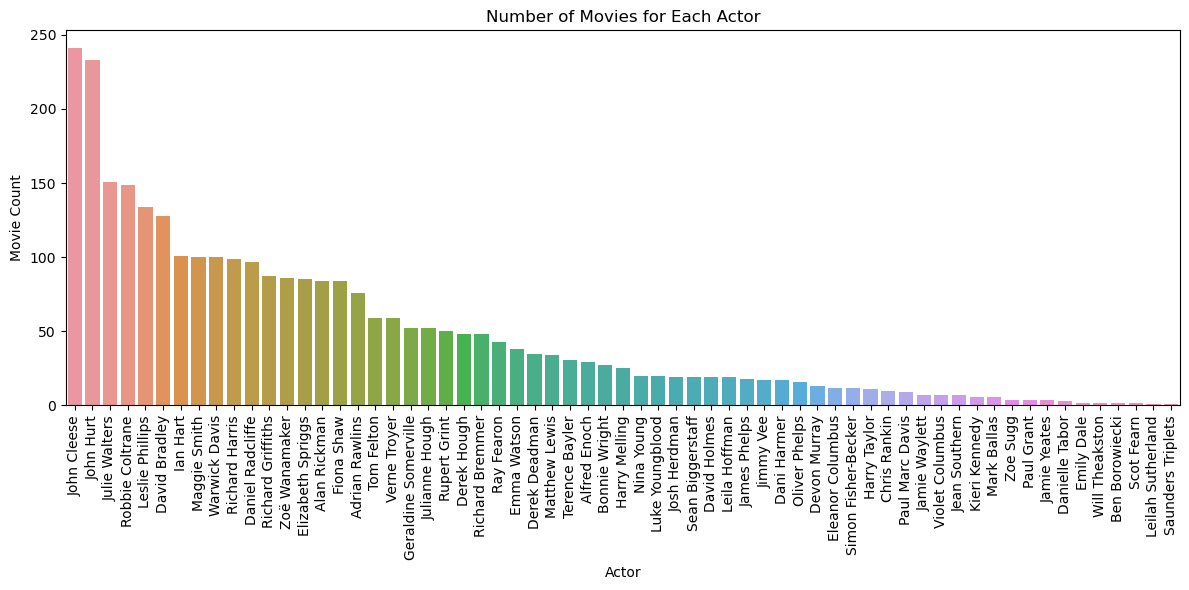
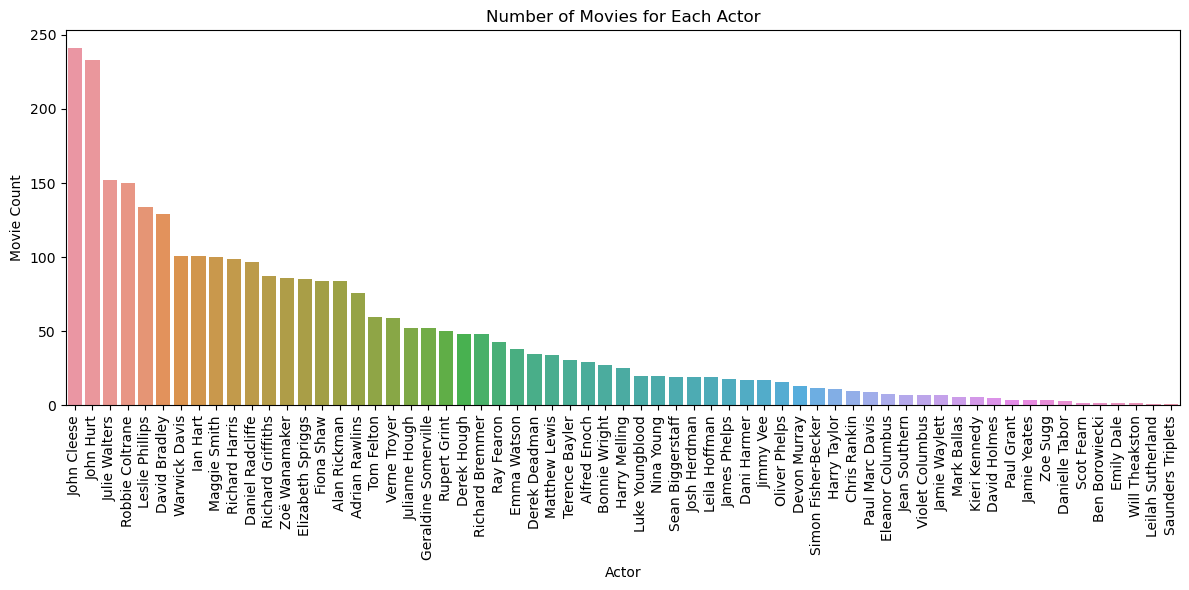
Built site for gh-pages

diff --git a/posts/16BHW2/index.html b/posts/16BHW2/index.html
@@ -7,7 +7,7 @@
 <meta name="viewport" content="width=device-width, initial-scale=1.0, user-scalable=yes">
 
 <meta name="author" content="Manshu Huang">
-<meta name="dcterms.date" content="2024-02-06">
+<meta name="dcterms.date" content="2024-02-12">
 
 <title>PIC16B - PIC 16B HW2</title>
 <style>
@@ -170,7 +170,7 @@ pre > code.sourceCode > span > a:first-child::before { text-decoration: underlin
       <div>
       <div class="quarto-title-meta-heading">Published</div>
       <div class="quarto-title-meta-contents">
-        <p class="date">February 6, 2024</p>
+        <p class="date">February 12, 2024</p>
       </div>
     </div>
     
@@ -223,85 +223,90 @@ cd TMDB_scraper</code></pre>
 <section id="write-scraper" class="level2">
 <h2 class="anchored" data-anchor-id="write-scraper">2. Write Scraper</h2>
 <p>In this section, we create a file <strong>tmdb_spider.py</strong> inside the <strong>spiders</strong> directory called <strong>tmdb_spider.py</strong>. Note we will write scraper codes in this file.</p>
-<div id="cell-10" class="cell">
+<div id="cell-10" class="cell" data-execution_count="3">
 <div class="sourceCode cell-code" id="cb4"><pre class="sourceCode python code-with-copy"><code class="sourceCode python"><span id="cb4-1"><a href="#cb4-1" aria-hidden="true" tabindex="-1"></a><span class="co"># to run </span></span>
 <span id="cb4-2"><a href="#cb4-2" aria-hidden="true" tabindex="-1"></a><span class="co"># scrapy crawl tmdb_spider -o movies.csv -a subdir=671-harry-potter-and-the-philosopher-s-stone</span></span>
 <span id="cb4-3"><a href="#cb4-3" aria-hidden="true" tabindex="-1"></a></span>
 <span id="cb4-4"><a href="#cb4-4" aria-hidden="true" tabindex="-1"></a><span class="im">import</span> scrapy</span>
 <span id="cb4-5"><a href="#cb4-5" aria-hidden="true" tabindex="-1"></a></span>
 <span id="cb4-6"><a href="#cb4-6" aria-hidden="true" tabindex="-1"></a><span class="kw">class</span> TmdbSpider(scrapy.Spider):</span>
-<span id="cb4-7"><a href="#cb4-7" aria-hidden="true" tabindex="-1"></a>    <span class="co"># Give a spider name, used to specify the spider in the command line</span></span>
+<span id="cb4-7"><a href="#cb4-7" aria-hidden="true" tabindex="-1"></a>    <span class="co"># Give a unique identifier for spider name, used to trigger this certain spider from the command line</span></span>
 <span id="cb4-8"><a href="#cb4-8" aria-hidden="true" tabindex="-1"></a>    name <span class="op">=</span> <span class="st">'tmdb_spider'</span></span>
 <span id="cb4-9"><a href="#cb4-9" aria-hidden="true" tabindex="-1"></a>    </span>
 <span id="cb4-10"><a href="#cb4-10" aria-hidden="true" tabindex="-1"></a>    <span class="kw">def</span> <span class="fu">__init__</span>(<span class="va">self</span>, subdir<span class="op">=</span><span class="va">None</span>, <span class="op">*</span>args, <span class="op">**</span>kwargs):</span>
 <span id="cb4-11"><a href="#cb4-11" aria-hidden="true" tabindex="-1"></a>        <span class="co">"""</span></span>
-<span id="cb4-12"><a href="#cb4-12" aria-hidden="true" tabindex="-1"></a><span class="co">        Initialize the spider instance</span></span>
-<span id="cb4-13"><a href="#cb4-13" aria-hidden="true" tabindex="-1"></a><span class="co">        :param subdir: The movie's subdirectory, used to build the start URL</span></span>
-<span id="cb4-14"><a href="#cb4-14" aria-hidden="true" tabindex="-1"></a><span class="co">        :param args: Positional arguments</span></span>
-<span id="cb4-15"><a href="#cb4-15" aria-hidden="true" tabindex="-1"></a><span class="co">        :param kwargs: Keyword arguments</span></span>
-<span id="cb4-16"><a href="#cb4-16" aria-hidden="true" tabindex="-1"></a><span class="co">        """</span></span>
-<span id="cb4-17"><a href="#cb4-17" aria-hidden="true" tabindex="-1"></a>        <span class="bu">super</span>(TmdbSpider, <span class="va">self</span>).<span class="fu">__init__</span>(<span class="op">*</span>args, <span class="op">**</span>kwargs)</span>
-<span id="cb4-18"><a href="#cb4-18" aria-hidden="true" tabindex="-1"></a>        <span class="co"># Construct the start URLs list, each URL corresponds to a page to scrape</span></span>
-<span id="cb4-19"><a href="#cb4-19" aria-hidden="true" tabindex="-1"></a>        <span class="va">self</span>.start_urls <span class="op">=</span> [<span class="ss">f"https://www.themoviedb.org/movie/</span><span class="sc">{</span>subdir<span class="sc">}</span><span class="ss">/"</span>]</span>
-<span id="cb4-20"><a href="#cb4-20" aria-hidden="true" tabindex="-1"></a></span>
-<span id="cb4-21"><a href="#cb4-21" aria-hidden="true" tabindex="-1"></a>    <span class="kw">def</span> parse(<span class="va">self</span>, response):</span>
-<span id="cb4-22"><a href="#cb4-22" aria-hidden="true" tabindex="-1"></a>        <span class="co">"""</span></span>
-<span id="cb4-23"><a href="#cb4-23" aria-hidden="true" tabindex="-1"></a><span class="co">        Parses the main movie page, extracts the from the full cast, and makes a request to that link</span></span>
-<span id="cb4-24"><a href="#cb4-24" aria-hidden="true" tabindex="-1"></a><span class="co">        :param response: The response object containing the content of the movies' main page</span></span>
-<span id="cb4-25"><a href="#cb4-25" aria-hidden="true" tabindex="-1"></a><span class="co">        """</span></span>
-<span id="cb4-26"><a href="#cb4-26" aria-hidden="true" tabindex="-1"></a>        <span class="co"># Extracts the link to the "full cast and crew" page from the main movie page</span></span>
-<span id="cb4-27"><a href="#cb4-27" aria-hidden="true" tabindex="-1"></a>        full_cast_link <span class="op">=</span> response.css(<span class="st">'p.new_button a::attr(href)'</span>).get()</span>
-<span id="cb4-28"><a href="#cb4-28" aria-hidden="true" tabindex="-1"></a>        <span class="cf">if</span> full_cast_link:</span>
-<span id="cb4-29"><a href="#cb4-29" aria-hidden="true" tabindex="-1"></a>            <span class="co"># If the link is found, make a request to the cast list page</span></span>
-<span id="cb4-30"><a href="#cb4-30" aria-hidden="true" tabindex="-1"></a>            <span class="cf">yield</span> response.follow(full_cast_link, <span class="va">self</span>.parse_full_credits)</span>
-<span id="cb4-31"><a href="#cb4-31" aria-hidden="true" tabindex="-1"></a>    </span>
-<span id="cb4-32"><a href="#cb4-32" aria-hidden="true" tabindex="-1"></a>    <span class="kw">def</span> parse_full_credits(<span class="va">self</span>, response):</span>
-<span id="cb4-33"><a href="#cb4-33" aria-hidden="true" tabindex="-1"></a>        <span class="co">"""</span></span>
-<span id="cb4-34"><a href="#cb4-34" aria-hidden="true" tabindex="-1"></a><span class="co">        Parses the full cast list page, extracts individual actor page links, and makes requests to those pages.</span></span>
-<span id="cb4-35"><a href="#cb4-35" aria-hidden="true" tabindex="-1"></a><span class="co">        :param response: The response object containing the content of the full cast list page.</span></span>
-<span id="cb4-36"><a href="#cb4-36" aria-hidden="true" tabindex="-1"></a><span class="co">        """</span></span>
-<span id="cb4-37"><a href="#cb4-37" aria-hidden="true" tabindex="-1"></a>        <span class="co"># Selects only the first "panel pad" section of the page</span></span>
-<span id="cb4-38"><a href="#cb4-38" aria-hidden="true" tabindex="-1"></a>        first_panel_pad <span class="op">=</span> response.xpath(<span class="st">'(//section[contains(@class, "panel") and contains(@class, "pad")])[1]'</span>)</span>
-<span id="cb4-39"><a href="#cb4-39" aria-hidden="true" tabindex="-1"></a>        <span class="cf">for</span> actor <span class="kw">in</span> first_panel_pad.css(<span class="st">'ol.people.credits &gt; li'</span>):</span>
-<span id="cb4-40"><a href="#cb4-40" aria-hidden="true" tabindex="-1"></a>            <span class="co"># Extracts the individual actor page link</span></span>
-<span id="cb4-41"><a href="#cb4-41" aria-hidden="true" tabindex="-1"></a>            actor_page <span class="op">=</span> actor.css(<span class="st">'a::attr(href)'</span>).get()</span>
-<span id="cb4-42"><a href="#cb4-42" aria-hidden="true" tabindex="-1"></a>            <span class="cf">if</span> actor_page:</span>
-<span id="cb4-43"><a href="#cb4-43" aria-hidden="true" tabindex="-1"></a>                <span class="co"># Makes a request to the actor's personal page</span></span>
-<span id="cb4-44"><a href="#cb4-44" aria-hidden="true" tabindex="-1"></a>                <span class="cf">yield</span> response.follow(actor_page[:<span class="op">-</span><span class="dv">15</span>]<span class="op">+</span><span class="st">'?credit_department=Acting&amp;language=en-US'</span>, <span class="va">self</span>.parse_actor_page)</span>
-<span id="cb4-45"><a href="#cb4-45" aria-hidden="true" tabindex="-1"></a>    </span>
-<span id="cb4-46"><a href="#cb4-46" aria-hidden="true" tabindex="-1"></a>    <span class="kw">def</span> parse_actor_page(<span class="va">self</span>, response):</span>
-<span id="cb4-47"><a href="#cb4-47" aria-hidden="true" tabindex="-1"></a>        <span class="co">"""</span></span>
-<span id="cb4-48"><a href="#cb4-48" aria-hidden="true" tabindex="-1"></a><span class="co">        Parses the actor's personal page, extracting information about the movies or TV shows the actor has participated in.</span></span>
-<span id="cb4-49"><a href="#cb4-49" aria-hidden="true" tabindex="-1"></a><span class="co">        :param response: The response object containing the content of the actor's personal page.</span></span>
-<span id="cb4-50"><a href="#cb4-50" aria-hidden="true" tabindex="-1"></a><span class="co">        """</span></span>
-<span id="cb4-51"><a href="#cb4-51" aria-hidden="true" tabindex="-1"></a>        <span class="co"># Extracts the actor's name</span></span>
-<span id="cb4-52"><a href="#cb4-52" aria-hidden="true" tabindex="-1"></a>        actor_name <span class="op">=</span> response.css(<span class="st">'h2.title a::text'</span>).get().strip()</span>
-<span id="cb4-53"><a href="#cb4-53" aria-hidden="true" tabindex="-1"></a>        <span class="co"># Selects the first "card credits" table on the personal page</span></span>
-<span id="cb4-54"><a href="#cb4-54" aria-hidden="true" tabindex="-1"></a>        first_panel <span class="op">=</span> response.xpath(<span class="st">'(//table[contains(@class, "card") and contains(@class, "credits")])[1]'</span>)</span>
-<span id="cb4-55"><a href="#cb4-55" aria-hidden="true" tabindex="-1"></a>        <span class="cf">for</span> credit <span class="kw">in</span> first_panel.css(<span class="st">'.credit_group tr'</span>):</span>
-<span id="cb4-56"><a href="#cb4-56" aria-hidden="true" tabindex="-1"></a>            <span class="co"># Extracts the title of the work</span></span>
-<span id="cb4-57"><a href="#cb4-57" aria-hidden="true" tabindex="-1"></a>            title <span class="op">=</span> credit.css(<span class="st">'.role .tooltip bdi::text'</span>).get()</span>
-<span id="cb4-58"><a href="#cb4-58" aria-hidden="true" tabindex="-1"></a>            <span class="co"># Yields a dictionary containing the actor's name and the title of the work</span></span>
-<span id="cb4-59"><a href="#cb4-59" aria-hidden="true" tabindex="-1"></a>            <span class="cf">yield</span> {</span>
-<span id="cb4-60"><a href="#cb4-60" aria-hidden="true" tabindex="-1"></a>                <span class="st">'actor'</span>: actor_name,</span>
-<span id="cb4-61"><a href="#cb4-61" aria-hidden="true" tabindex="-1"></a>                <span class="st">'movie_or_TV_name'</span>: title</span>
-<span id="cb4-62"><a href="#cb4-62" aria-hidden="true" tabindex="-1"></a>            }</span></code><button title="Copy to Clipboard" class="code-copy-button"><i class="bi"></i></button></pre></div>
+<span id="cb4-12"><a href="#cb4-12" aria-hidden="true" tabindex="-1"></a><span class="co">        Initialize the spider instance with a specific movie's subdirectory.</span></span>
+<span id="cb4-13"><a href="#cb4-13" aria-hidden="true" tabindex="-1"></a><span class="co">        This subdirectory is essential for crafting the starting URL from which the spider begins scraping.</span></span>
+<span id="cb4-14"><a href="#cb4-14" aria-hidden="true" tabindex="-1"></a><span class="co">        </span></span>
+<span id="cb4-15"><a href="#cb4-15" aria-hidden="true" tabindex="-1"></a><span class="co">        :param subdir: Subdirectory for the movie on TMDB site, used to build the start URL</span></span>
+<span id="cb4-16"><a href="#cb4-16" aria-hidden="true" tabindex="-1"></a><span class="co">        :param args: Positional arguments</span></span>
+<span id="cb4-17"><a href="#cb4-17" aria-hidden="true" tabindex="-1"></a><span class="co">        :param kwargs: Keyword arguments</span></span>
+<span id="cb4-18"><a href="#cb4-18" aria-hidden="true" tabindex="-1"></a><span class="co">        """</span></span>
+<span id="cb4-19"><a href="#cb4-19" aria-hidden="true" tabindex="-1"></a>        <span class="bu">super</span>(TmdbSpider, <span class="va">self</span>).<span class="fu">__init__</span>(<span class="op">*</span>args, <span class="op">**</span>kwargs)</span>
+<span id="cb4-20"><a href="#cb4-20" aria-hidden="true" tabindex="-1"></a>        <span class="co"># Set the starting URL to scrape based on the provided movie subdirectory.</span></span>
+<span id="cb4-21"><a href="#cb4-21" aria-hidden="true" tabindex="-1"></a>        <span class="va">self</span>.start_urls <span class="op">=</span> [<span class="ss">f"https://www.themoviedb.org/movie/</span><span class="sc">{</span>subdir<span class="sc">}</span><span class="ss">/"</span>]</span>
+<span id="cb4-22"><a href="#cb4-22" aria-hidden="true" tabindex="-1"></a></span>
+<span id="cb4-23"><a href="#cb4-23" aria-hidden="true" tabindex="-1"></a>    <span class="kw">def</span> parse(<span class="va">self</span>, response):</span>
+<span id="cb4-24"><a href="#cb4-24" aria-hidden="true" tabindex="-1"></a>        <span class="co">"""</span></span>
+<span id="cb4-25"><a href="#cb4-25" aria-hidden="true" tabindex="-1"></a><span class="co">        Parses the main movie page, extracts the from the full cast, and makes a request to that link</span></span>
+<span id="cb4-26"><a href="#cb4-26" aria-hidden="true" tabindex="-1"></a><span class="co">        :param response: The response object containing the content of the movies' main page</span></span>
+<span id="cb4-27"><a href="#cb4-27" aria-hidden="true" tabindex="-1"></a><span class="co">        """</span></span>
+<span id="cb4-28"><a href="#cb4-28" aria-hidden="true" tabindex="-1"></a>        <span class="co"># Extracts the link to the "full cast and crew" page from the main movie page</span></span>
+<span id="cb4-29"><a href="#cb4-29" aria-hidden="true" tabindex="-1"></a>        full_cast_link <span class="op">=</span> response.css(<span class="st">'p.new_button a::attr(href)'</span>).get()</span>
+<span id="cb4-30"><a href="#cb4-30" aria-hidden="true" tabindex="-1"></a>        <span class="cf">if</span> full_cast_link:</span>
+<span id="cb4-31"><a href="#cb4-31" aria-hidden="true" tabindex="-1"></a>            <span class="co"># If the link is found, make a request to the cast list page</span></span>
+<span id="cb4-32"><a href="#cb4-32" aria-hidden="true" tabindex="-1"></a>            <span class="cf">yield</span> response.follow(full_cast_link, <span class="va">self</span>.parse_full_credits)</span>
+<span id="cb4-33"><a href="#cb4-33" aria-hidden="true" tabindex="-1"></a>    </span>
+<span id="cb4-34"><a href="#cb4-34" aria-hidden="true" tabindex="-1"></a>    <span class="kw">def</span> parse_full_credits(<span class="va">self</span>, response):</span>
+<span id="cb4-35"><a href="#cb4-35" aria-hidden="true" tabindex="-1"></a>        <span class="co">"""</span></span>
+<span id="cb4-36"><a href="#cb4-36" aria-hidden="true" tabindex="-1"></a><span class="co">        Parses the "Full Cast &amp; Crew" page, extracts each individual actor's personal page links, and makes requests to those pages.</span></span>
+<span id="cb4-37"><a href="#cb4-37" aria-hidden="true" tabindex="-1"></a><span class="co">        :param response: contains the content of the "Full Cast &amp; Crew" page.</span></span>
+<span id="cb4-38"><a href="#cb4-38" aria-hidden="true" tabindex="-1"></a><span class="co">        """</span></span>
+<span id="cb4-39"><a href="#cb4-39" aria-hidden="true" tabindex="-1"></a>        <span class="co"># Selects only the first "panel pad" section of the page using CSS selectors</span></span>
+<span id="cb4-40"><a href="#cb4-40" aria-hidden="true" tabindex="-1"></a>        first_panel_pad <span class="op">=</span> response.xpath(<span class="st">'(//section[contains(@class, "panel") and contains(@class, "pad")])[1]'</span>)</span>
+<span id="cb4-41"><a href="#cb4-41" aria-hidden="true" tabindex="-1"></a>        <span class="cf">for</span> actor <span class="kw">in</span> first_panel_pad.css(<span class="st">'ol.people.credits &gt; li'</span>):</span>
+<span id="cb4-42"><a href="#cb4-42" aria-hidden="true" tabindex="-1"></a>            <span class="co"># Extracts the individual actor page link，not including crew members</span></span>
+<span id="cb4-43"><a href="#cb4-43" aria-hidden="true" tabindex="-1"></a>            actor_page <span class="op">=</span> actor.css(<span class="st">'a::attr(href)'</span>).get()</span>
+<span id="cb4-44"><a href="#cb4-44" aria-hidden="true" tabindex="-1"></a>            <span class="cf">if</span> actor_page:</span>
+<span id="cb4-45"><a href="#cb4-45" aria-hidden="true" tabindex="-1"></a>                <span class="co"># Makes a request to the actor's personal page, directing go to its acting role section</span></span>
+<span id="cb4-46"><a href="#cb4-46" aria-hidden="true" tabindex="-1"></a>                <span class="cf">yield</span> response.follow(actor_page <span class="op">+</span> <span class="st">'?credit_department=Acting'</span>, <span class="va">self</span>.parse_actor_page)</span>
+<span id="cb4-47"><a href="#cb4-47" aria-hidden="true" tabindex="-1"></a>                </span>
+<span id="cb4-48"><a href="#cb4-48" aria-hidden="true" tabindex="-1"></a>    <span class="kw">def</span> parse_actor_page(<span class="va">self</span>, response):</span>
+<span id="cb4-49"><a href="#cb4-49" aria-hidden="true" tabindex="-1"></a>        <span class="co">"""</span></span>
+<span id="cb4-50"><a href="#cb4-50" aria-hidden="true" tabindex="-1"></a><span class="co">        Parses the actor's personal page, extracting information about the movies or TV shows the actor has participated in.</span></span>
+<span id="cb4-51"><a href="#cb4-51" aria-hidden="true" tabindex="-1"></a><span class="co">        :param response: The response object containing the content of the actor's personal page. </span></span>
+<span id="cb4-52"><a href="#cb4-52" aria-hidden="true" tabindex="-1"></a><span class="co">        We want only the works listed in "Acting" section for the actor page.</span></span>
+<span id="cb4-53"><a href="#cb4-53" aria-hidden="true" tabindex="-1"></a><span class="co">        We need to determine both the name of actor and the name of each movie/show.</span></span>
+<span id="cb4-54"><a href="#cb4-54" aria-hidden="true" tabindex="-1"></a><span class="co">        """</span></span>
+<span id="cb4-55"><a href="#cb4-55" aria-hidden="true" tabindex="-1"></a>        <span class="co"># Extracts the actor's name</span></span>
+<span id="cb4-56"><a href="#cb4-56" aria-hidden="true" tabindex="-1"></a>        actor_name <span class="op">=</span> response.css(<span class="st">'h2.title a::text'</span>).get()</span>
+<span id="cb4-57"><a href="#cb4-57" aria-hidden="true" tabindex="-1"></a>        <span class="co"># Directly gets all texts of this structure</span></span>
+<span id="cb4-58"><a href="#cb4-58" aria-hidden="true" tabindex="-1"></a>        movies <span class="op">=</span> response.xpath(<span class="st">'//a[@class="tooltip"]/bdi/text()'</span>).getall()</span>
+<span id="cb4-59"><a href="#cb4-59" aria-hidden="true" tabindex="-1"></a>        <span class="co"># Extracts the title of the work</span></span>
+<span id="cb4-60"><a href="#cb4-60" aria-hidden="true" tabindex="-1"></a>        <span class="cf">for</span> title <span class="kw">in</span> movies:</span>
+<span id="cb4-61"><a href="#cb4-61" aria-hidden="true" tabindex="-1"></a>            <span class="co"># Yields a dictionary (two key-value pairs) containing the actor's name and the title of the work</span></span>
+<span id="cb4-62"><a href="#cb4-62" aria-hidden="true" tabindex="-1"></a>            <span class="cf">yield</span> {</span>
+<span id="cb4-63"><a href="#cb4-63" aria-hidden="true" tabindex="-1"></a>                <span class="st">'actor'</span>: actor_name,</span>
+<span id="cb4-64"><a href="#cb4-64" aria-hidden="true" tabindex="-1"></a>                <span class="st">'movie_or_TV_name'</span>: title</span>
+<span id="cb4-65"><a href="#cb4-65" aria-hidden="true" tabindex="-1"></a>            }</span></code><button title="Copy to Clipboard" class="code-copy-button"><i class="bi"></i></button></pre></div>
 </div>
 <p>After successfully build the spider, we can run this command in terminal: <br></p>
 <p><strong>scrapy crawl tmdb_spider -o results.csv -a subdir=671-harry-potter-and-the-philosopher-s-stone</strong> <br></p>
 <p>Which run the spider and save a results.csv file with columns for actor names and the movies and TV shows on which they featured in.</p>
+<p>Once the spider is fully written, we can comment out the line <br> <strong>CLOSESPIDER_PAGECOUNT = 20</strong><br> <br> in the settings.py file, then run this command in the terminal to generate a <strong>results.csv</strong> <br> <strong>scrapy crawl tmdb_spider -o results.csv -a subdir=671-harry-potter-and-the-philosopher-s-stone</strong></p>
+<p>This <strong>results.csv</strong> will contain columns for actor names and the movies and TV shows on which they featured in.</p>
 </section>
-<section id="visualization" class="level2">
-<h2 class="anchored" data-anchor-id="visualization">3. Visualization</h2>
+<section id="make-your-recommendations-visualization" class="level2">
+<h2 class="anchored" data-anchor-id="make-your-recommendations-visualization">3. Make Your Recommendations: Visualization</h2>
 <p>In this section, I will introduce visualization of numbers of shared actors.</p>
-<div id="cell-13" class="cell" data-execution_count="33">
+<div id="cell-15" class="cell" data-execution_count="4">
 <div class="sourceCode cell-code" id="cb5"><pre class="sourceCode python code-with-copy"><code class="sourceCode python"><span id="cb5-1"><a href="#cb5-1" aria-hidden="true" tabindex="-1"></a><span class="im">import</span> pandas <span class="im">as</span> pd</span>
 <span id="cb5-2"><a href="#cb5-2" aria-hidden="true" tabindex="-1"></a><span class="im">import</span> matplotlib.pyplot <span class="im">as</span> plt</span>
 <span id="cb5-3"><a href="#cb5-3" aria-hidden="true" tabindex="-1"></a><span class="im">import</span> seaborn <span class="im">as</span> sns</span></code><button title="Copy to Clipboard" class="code-copy-button"><i class="bi"></i></button></pre></div>
 </div>
 <section id="results.csv-results-view-in-table" class="level3">
 <h3 class="anchored" data-anchor-id="results.csv-results-view-in-table">results.csv results view in table</h3>
-<div id="cell-15" class="cell" data-execution_count="40">
+<div id="cell-17" class="cell" data-execution_count="5">
 <div class="sourceCode cell-code" id="cb6"><pre class="sourceCode python code-with-copy"><code class="sourceCode python"><span id="cb6-1"><a href="#cb6-1" aria-hidden="true" tabindex="-1"></a>data<span class="op">=</span>pd.read_csv(<span class="st">'results.csv'</span>)</span>
 <span id="cb6-2"><a href="#cb6-2" aria-hidden="true" tabindex="-1"></a><span class="bu">print</span>(data)</span></code><button title="Copy to Clipboard" class="code-copy-button"><i class="bi"></i></button></pre></div>
 <div class="cell-output cell-output-stdout">
@@ -312,16 +317,16 @@ cd TMDB_scraper</code></pre>
 3     Daniel Radcliffe                            Mulligan
 4     Daniel Radcliffe                             Digman!
 ...                ...                                 ...
-2969      Rupert Grint                            The View
-2970      Rupert Grint                                GMTV
-2971      Rupert Grint      The Tonight Show with Jay Leno
-2972      Rupert Grint                 An Audience with...
-2973      Rupert Grint                               Today
+2956      Rupert Grint                            The View
+2957      Rupert Grint                                GMTV
+2958      Rupert Grint      The Tonight Show with Jay Leno
+2959      Rupert Grint                 An Audience with...
+2960      Rupert Grint                               Today
 
-[2974 rows x 2 columns]</code></pre>
+[2961 rows x 2 columns]</code></pre>
 </div>
 </div>
-<div id="cell-16" class="cell" data-execution_count="42">
+<div id="cell-18" class="cell" data-execution_count="6">
 <div class="sourceCode cell-code" id="cb8"><pre class="sourceCode python code-with-copy"><code class="sourceCode python"><span id="cb8-1"><a href="#cb8-1" aria-hidden="true" tabindex="-1"></a><span class="bu">print</span>(data.head(<span class="dv">35</span>))</span></code><button title="Copy to Clipboard" class="code-copy-button"><i class="bi"></i></button></pre></div>
 <div class="cell-output cell-output-stdout">
 <pre><code>               actor                                   movie_or_TV_name
@@ -362,7 +367,7 @@ cd TMDB_scraper</code></pre>
 34  Daniel Radcliffe                                 Trailblazer Honors</code></pre>
 </div>
 </div>
-<div id="cell-17" class="cell" data-execution_count="35">
+<div id="cell-19" class="cell" data-execution_count="7">
 <div class="sourceCode cell-code" id="cb10"><pre class="sourceCode python code-with-copy"><code class="sourceCode python"><span id="cb10-1"><a href="#cb10-1" aria-hidden="true" tabindex="-1"></a><span class="co">"""</span></span>
 <span id="cb10-2"><a href="#cb10-2" aria-hidden="true" tabindex="-1"></a><span class="co">Counts the occurrences of each unique value in the 'actor' column of the dataframe 'data' and returns a Series.</span></span>
 <span id="cb10-3"><a href="#cb10-3" aria-hidden="true" tabindex="-1"></a><span class="co">The index of the Series will be the actor names, and the values will be the count of movies each actor has appeared in.</span></span>
@@ -372,25 +377,25 @@ cd TMDB_scraper</code></pre>
 </section>
 <section id="bar-plot-visualization" class="level3">
 <h3 class="anchored" data-anchor-id="bar-plot-visualization">Bar-Plot Visualization</h3>
-<div id="cell-19" class="cell" data-execution_count="36">
+<div id="cell-21" class="cell" data-execution_count="8">
 <div class="sourceCode cell-code" id="cb11"><pre class="sourceCode python code-with-copy"><code class="sourceCode python"><span id="cb11-1"><a href="#cb11-1" aria-hidden="true" tabindex="-1"></a>actor_counts</span></code><button title="Copy to Clipboard" class="code-copy-button"><i class="bi"></i></button></pre></div>
-<div class="cell-output cell-output-display" data-execution_count="36">
+<div class="cell-output cell-output-display" data-execution_count="8">
 <pre><code>actor
 John Cleese          241
 John Hurt            233
-Julie Walters        151
-Robbie Coltrane      149
+Julie Walters        152
+Robbie Coltrane      150
 Leslie Phillips      134
                     ... 
-Will Theakston         2
 Ben Borowiecki         2
-Scot Fearn             2
+Emily Dale             2
+Will Theakston         2
 Leilah Sutherland      1
 Saunders Triplets      1
 Name: count, Length: 63, dtype: int64</code></pre>
 </div>
 </div>
-<div id="cell-20" class="cell" data-execution_count="37">
+<div id="cell-22" class="cell" data-execution_count="9">
 <div class="sourceCode cell-code" id="cb13"><pre class="sourceCode python code-with-copy"><code class="sourceCode python"><span id="cb13-1"><a href="#cb13-1" aria-hidden="true" tabindex="-1"></a><span class="co">"""</span></span>
 <span id="cb13-2"><a href="#cb13-2" aria-hidden="true" tabindex="-1"></a><span class="co">This script visualizes the number of movies each actor has appeared in using a bar plot.</span></span>
 <span id="cb13-3"><a href="#cb13-3" aria-hidden="true" tabindex="-1"></a><span class="co">"""</span></span>

diff --git a/index.html b/index.html
@@ -205,7 +205,7 @@ window.Quarto = {
 
 <div class="quarto-listing quarto-listing-container-default" id="listing-listing">
 <div class="list quarto-listing-default">
-<div class="quarto-post image-right" data-index="0" data-categories="week 5,hw2" data-listing-date-sort="1707206400000" data-listing-file-modified-sort="1707364549202" data-listing-date-modified-sort="NaN" data-listing-reading-time-sort="3" data-listing-word-count-sort="424">
+<div class="quarto-post image-right" data-index="0" data-categories="week 5,hw2" data-listing-date-sort="1707724800000" data-listing-file-modified-sort="1707806641404" data-listing-date-modified-sort="NaN" data-listing-reading-time-sort="3" data-listing-word-count-sort="480">
 <div class="thumbnail">
 <p><a href="./posts/16BHW2/index.html" class="no-external"></a></p><a href="./posts/16BHW2/index.html" class="no-external">
 <p class="card-img-top"><img src="posts/16BHW2/index_files/figure-html/cell-8-output-1.png"  class="thumbnail-image card-img"/></p>
@@ -233,7 +233,7 @@ hw2
 <div class="metadata">
 <a href="./posts/16BHW2/index.html" class="no-external">
 <div class="listing-date">
-Feb 6, 2024
+Feb 12, 2024
 </div>
 <div class="listing-author">
 Manshu Huang
